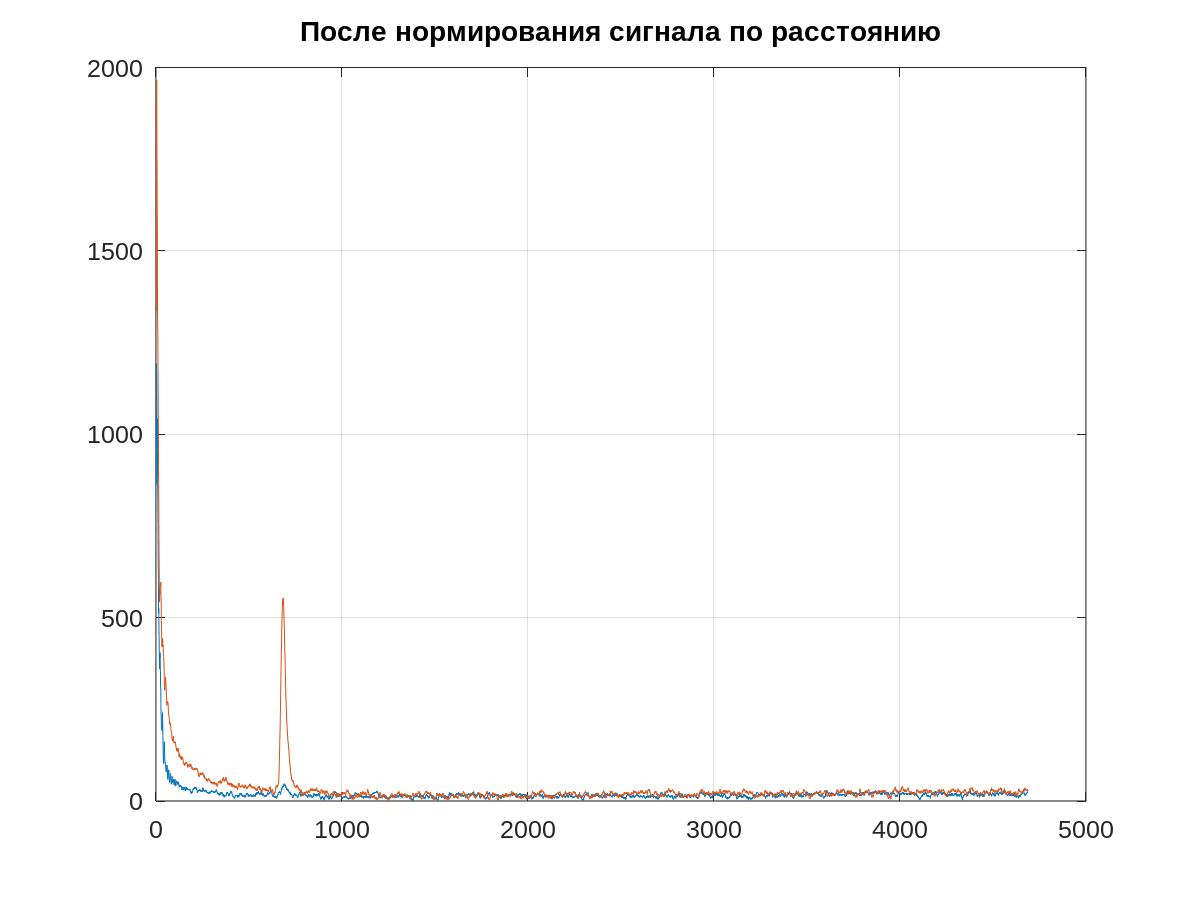
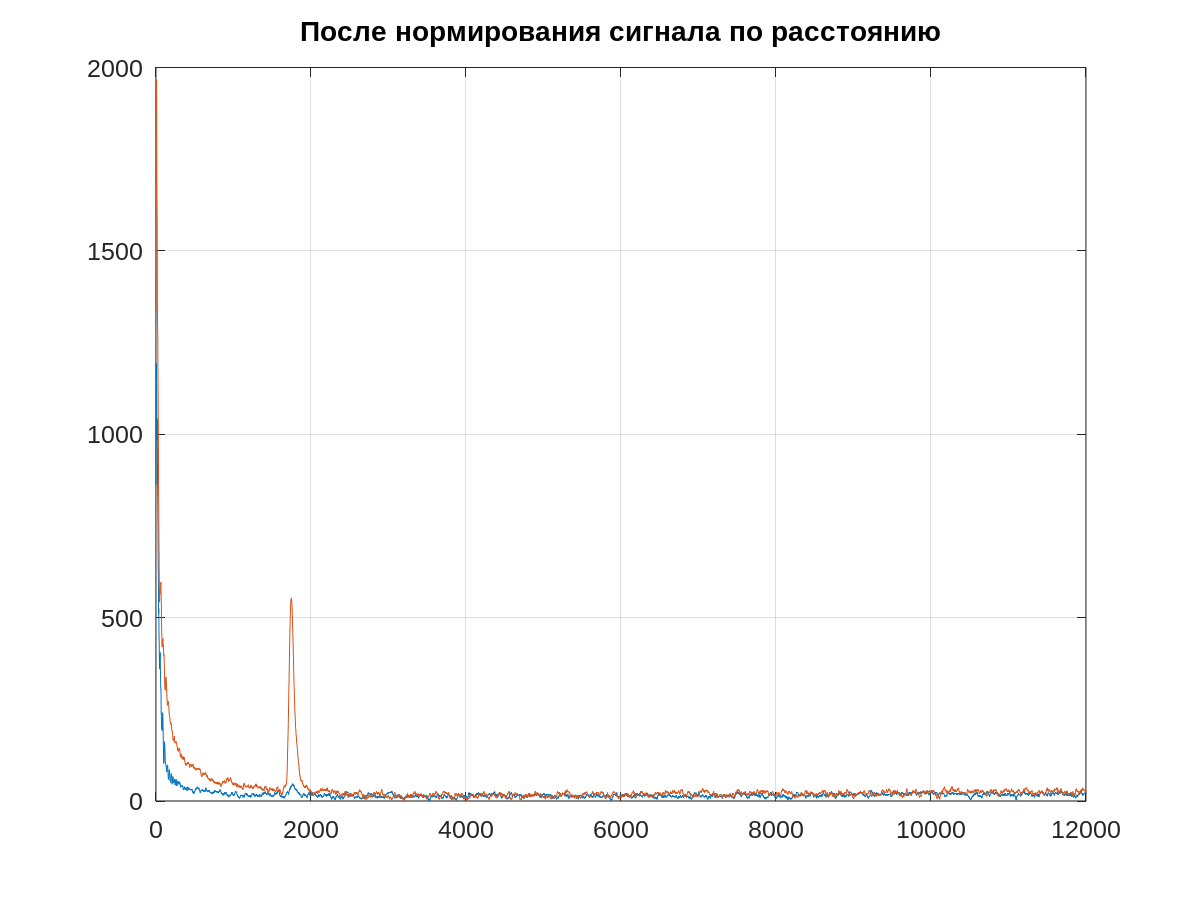
Update README.md

Changed region(s): [[0.1233, 0.6533, 0.925, 0.9333]]

diff --git a/src/octave/main.m b/src/octave/main.m
@@ -55,7 +55,7 @@ t = linspace(0, 12000, length(data));
 data = (data - min(x)) ./ (max(x) - min(x)) .* (12000 - 0) + 0;
 	
 figure(6);
-plot(data);
+plot(t, data);
 grid on;
 title("После нормирования сигнала по расстоянию");
 saveas(6, "6.png")
@@ -70,7 +70,7 @@ for i = [2:length(cor_data) - 1]
 endfor;
 
 figure(7);
-plot(data);
+plot(t, data);
 grid on;
 title("После применения медианного фильтра");
 saveas(7, "7.png")

diff --git a/README.md b/README.md
@@ -16,10 +16,10 @@
 <h5>Результат инвертирования каналов:</h5>
 
 ![plot4.png](res/4.png)
-<h5>Результат инвертирования каналов:</h5>
+<h5>Результат нормирования каналов:</h5>
 
 ![plot5.png](res/5.png)
-<h5>После нормирования каналов:</h5>
+<h5>После нормирования каналов по расстоянию:</h5>
 
 ![plot6.png](res/6.png)
 <h5>Результат применения медианного фильтра с окном в 3 элемента:</h5>
@@ -47,7 +47,7 @@ glm(0.9.9.8)
 ```
 <h4>Установка с помощью cmake:</h4>
 ```cmake
-git clone Вставить название 
+git clone https://github.com/Biblbrox/TestExc.git
 cd TestExc
 mkdir build && cd build
 cmake -DCMAKE_BUILD_TYPE=Release ..
